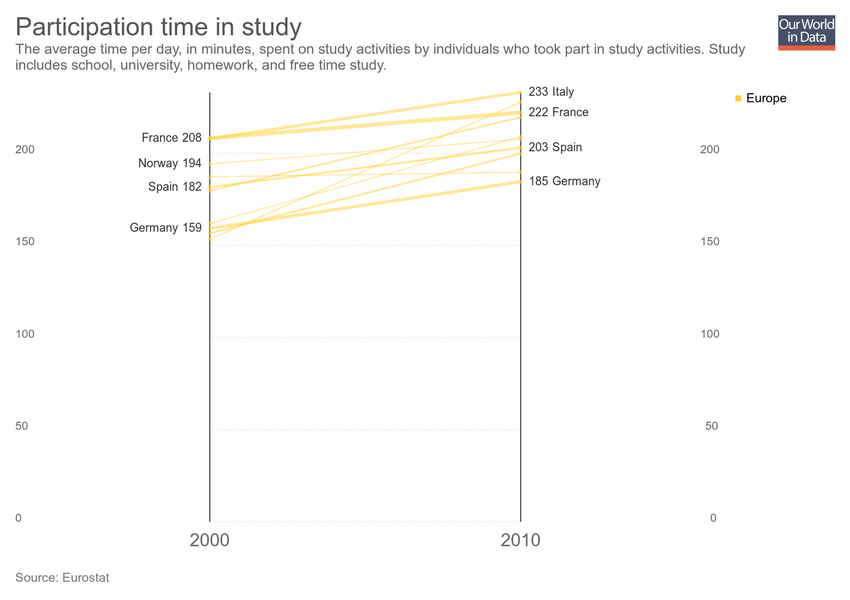
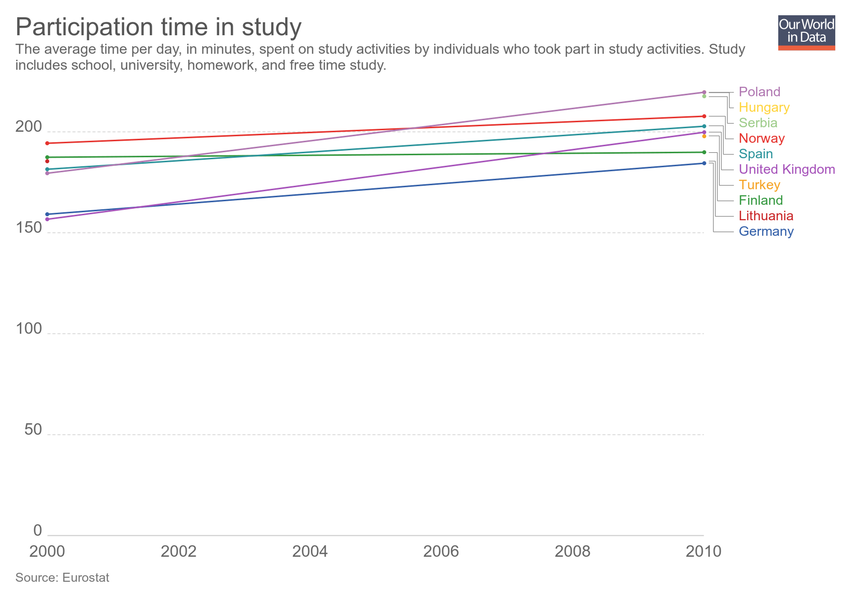
Updating chart participation-time-in-study

diff --git a/grapher/hiv-expenditure.html b/grapher/hiv-expenditure.html
@@ -1,4 +1,4 @@
-<!doctype html><html><head><meta name="viewport" content="width=device-width, initial-scale=1" /><title>HIV expenditure on prevention and treatment - Our World in Data</title><meta name="description" content="Total expenditure on HIV/AIDS prevention and treatment, measured in US$." /><link rel="canonical" href="https://ourworldindata.org/grapher/hiv-expenditure" /><meta property="fb:app_id" content="1149943818390250" /><meta property="og:url" content="https://ourworldindata.org/grapher/hiv-expenditure" /><meta property="og:title" content="HIV expenditure on prevention and treatment" /><meta property="og:description" content="Total expenditure on HIV/AIDS prevention and treatment, measured in US$." /><meta property="og:image" content="https://ourworldindata.org/grapher/exports/hiv-expenditure.png?v=1" /><meta property="og:image:width" content="850" /><meta property="og:image:height" content="600" /><meta property="og:site_name" content="Our World in Data" /><meta name="twitter:card" content="summary_large_image" /><meta name="twitter:site" content="@OurWorldInData" /><meta name="twitter:creator" content="@OurWorldInData" /><meta name="twitter:title" content="HIV expenditure on prevention and treatment" /><meta name="twitter:description" content="Total expenditure on HIV/AIDS prevention and treatment, measured in US$." /><meta name="twitter:image" content="https://ourworldindata.org/grapher/exports/hiv-expenditure.png?v=1" /><style>
+<!doctype html><html><head><meta name="viewport" content="width=device-width, initial-scale=1" /><title>HIV expenditure - Our World in Data</title><meta name="description" content="Country-reported HIV expenditure, measured in current US$ per year. The year of reported expenditure varies by country; this information can be found by hovering over a given country." /><link rel="canonical" href="https://ourworldindata.org/grapher/hiv-expenditure" /><meta property="fb:app_id" content="1149943818390250" /><meta property="og:url" content="https://ourworldindata.org/grapher/hiv-expenditure" /><meta property="og:title" content="HIV expenditure" /><meta property="og:description" content="Country-reported HIV expenditure, measured in current US$ per year. The year of reported expenditure varies by country; this information can be found by hovering over a given country." /><meta property="og:image" content="https://ourworldindata.org/grapher/exports/hiv-expenditure.png?v=1" /><meta property="og:image:width" content="850" /><meta property="og:image:height" content="600" /><meta property="og:site_name" content="Our World in Data" /><meta name="twitter:card" content="summary_large_image" /><meta name="twitter:site" content="@OurWorldInData" /><meta name="twitter:creator" content="@OurWorldInData" /><meta name="twitter:title" content="HIV expenditure" /><meta name="twitter:description" content="Country-reported HIV expenditure, measured in current US$ per year. The year of reported expenditure varies by country; this information can be found by hovering over a given country." /><meta name="twitter:image" content="https://ourworldindata.org/grapher/exports/hiv-expenditure.png?v=1" /><style>
         html, body {
             height: 100%;
             margin: 0;
@@ -20,19 +20,8 @@
         }
     </style><noscript><style>
                     figure { display: none !important; }
-                </style></noscript><link rel="stylesheet" href="https://ourworldindata.org/grapher/assets/commons.bundle.b9f051796dbbbb7e5139.css" /><link rel="preload" href="/grapher/data/variables/96328.json?v=1" as="fetch" crossorigin /></head><body class="singleChart"><figure data-grapher-src="/grapher/hiv-expenditure"></figure><noscript id="fallback"><img src="/grapher/exports/hiv-expenditure.svg" /><p>Interactive visualization requires JavaScript</p></noscript><script src="https://cdn.polyfill.io/v2/polyfill.min.js?features=es6,fetch"></script><script src="https://ourworldindata.org/grapher/assets/commons.bundle.b9f051796dbbbb7e5139.js"></script><script src="https://ourworldindata.org/grapher/assets/charts.bundle.b9f051796dbbbb7e5139.js"></script><script>
-        var jsonConfig = {"map":{"projection":"World","targetYear":2015,"variableId":96328,"timeTolerance":3,"baseColorScheme":"YlGnBu","isManualBuckets":true,"colorSchemeLabels":[],"colorSchemeValues":[50000000,100000000,150000000,200000000,250000000,300000000,350000000,400000000],"defaultProjection":"World","colorSchemeMinValue":0,"customNumericColors":[null,null],"customCategoryColors":{},"customCategoryLabels":{},"customHiddenCategories":{}},"tab":"map","slug":"hiv-expenditure","type":"LineChart","title":"HIV expenditure on prevention and treatment","xAxis":{"scaleType":"linear"},"yAxis":{"min":0,"scaleType":"linear"},"version":1,"subtitle":"Total expenditure on HIV/AIDS prevention and treatment, measured in US$.","hasMapTab":true,"stackMode":"absolute","dimensions":[{"display":{"shortUnit":"$"},"property":"y","variableId":96328}],"hasChartTab":true,"isPublished":true,"selectedData":[{"index":0,"entityId":123},{"index":0,"entityId":237},{"index":0,"entityId":95}],"addCountryMode":"add-country","id":2488};
-        var figure = document.getElementsByTagName("figure")[0];
-        try {
-            window.App = {};
-            window.Global = { rootUrl: 'https://ourworldindata.org/grapher' };
-            ChartView.bootstrap({ jsonConfig: jsonConfig, containerNode: figure })
-        } catch (err) {
-            figure.innerHTML = "<img src=\"/grapher/exports/hiv-expenditure.svg\"/><p>Unable to load interactive visualization</p>";
-            figure.setAttribute("id", "fallback");
-            throw err;
-        }
-    </script></body></html>d":219},{"index":0,"entityId":23},{"index":0,"entityId":25},{"index":0,"entityId":26},{"index":0,"entityId":28},{"index":0,"entityId":29},{"index":0,"entityId":30},{"index":0,"entityId":4},{"index":0,"entityId":31},{"index":0,"entityId":32},{"index":0,"entityId":34},{"index":0,"entityId":35},{"index":0,"entityId":36},{"index":0,"entityId":37},{"index":0,"entityId":39},{"index":0,"entityId":40},{"index":0,"entityId":41},{"index":0,"entityId":18581},{"index":0,"entityId":42},{"index":0,"entityId":43},{"index":0,"entityId":174},{"index":0,"entityId":173},{"index":0,"entityId":172},{"index":0,"entityId":171},{"index":0,"entityId":170},{"index":0,"entityId":169},{"index":0,"entityId":168},{"index":0,"entityId":166},{"index":0,"entityId":143}],"addCountryMode":"add-country","hideTitleAnnotation":true,"id":2293};
+                </style></noscript><link rel="stylesheet" href="https://ourworldindata.org/grapher/assets/commons.bundle.b9f051796dbbbb7e5139.css" /><link rel="preload" href="/grapher/data/variables/85855.json?v=1" as="fetch" crossorigin /></head><body class="singleChart"><figure data-grapher-src="/grapher/hiv-expenditure"></figure><noscript id="fallback"><img src="/grapher/exports/hiv-expenditure.svg" /><p>Interactive visualization requires JavaScript</p></noscript><script src="https://cdn.polyfill.io/v2/polyfill.min.js?features=es6,fetch"></script><script src="https://ourworldindata.org/grapher/assets/commons.bundle.b9f051796dbbbb7e5139.js"></script><script src="https://ourworldindata.org/grapher/assets/charts.bundle.b9f051796dbbbb7e5139.js"></script><script>
+        var jsonConfig = {"map":{"projection":"World","targetYear":2016,"variableId":85855,"equalSizeBins":true,"timeTolerance":5,"baseColorScheme":"Purples","isManualBuckets":true,"colorSchemeLabels":[],"colorSchemeValues":[50000000,100000000,200000000,300000000,400000000,500000000,750000000,1000000000],"defaultProjection":"World","colorSchemeMinValue":0,"customNumericColors":[null,null],"customCategoryColors":{},"customCategoryLabels":{},"customHiddenCategories":{}},"tab":"map","slug":"hiv-expenditure","type":"LineChart","title":"HIV expenditure","xAxis":{"scaleType":"linear"},"yAxis":{"min":0,"scaleType":"linear"},"version":1,"subtitle":"Country-reported HIV expenditure, measured in current US$ per year. The year of reported expenditure varies by country; this information can be found by hovering over a given country.","hasMapTab":true,"stackMode":"absolute","dimensions":[{"display":{},"property":"y","variableId":85855}],"isAutoSlug":true,"sourceDesc":"UNAIDS","hasChartTab":false,"isPublished":true,"selectedData":[{"index":0,"entityId":84},{"index":0,"entityId":233},{"index":0,"entityId":229},{"index":0,"entityId":15},{"index":0,"entityId":16},{"index":0,"entityId":17},{"index":0,"entityId":19},{"index":0,"entityId":20},{"index":0,"entityId":21},{"index":0,"entityId":22},{"index":0,"entityId":219},{"index":0,"entityId":23},{"index":0,"entityId":25},{"index":0,"entityId":26},{"index":0,"entityId":28},{"index":0,"entityId":29},{"index":0,"entityId":30},{"index":0,"entityId":4},{"index":0,"entityId":31},{"index":0,"entityId":32},{"index":0,"entityId":34},{"index":0,"entityId":35},{"index":0,"entityId":36},{"index":0,"entityId":37},{"index":0,"entityId":39},{"index":0,"entityId":40},{"index":0,"entityId":41},{"index":0,"entityId":18581},{"index":0,"entityId":42},{"index":0,"entityId":43},{"index":0,"entityId":174},{"index":0,"entityId":173},{"index":0,"entityId":172},{"index":0,"entityId":171},{"index":0,"entityId":170},{"index":0,"entityId":169},{"index":0,"entityId":168},{"index":0,"entityId":166},{"index":0,"entityId":143}],"addCountryMode":"add-country","hideTitleAnnotation":true,"id":2293};
         var figure = document.getElementsByTagName("figure")[0];
         try {
             window.App = {};

diff --git a/grapher/participation-time-in-study.html b/grapher/participation-time-in-study.html
@@ -1,4 +1,4 @@
-<!doctype html><html><head><meta name="viewport" content="width=device-width, initial-scale=1" /><title>Participation time in study - Our World in Data</title><meta name="description" content="The average time per day, in minutes, spent on study activities by individuals who took part in study activities. Study includes school, university, homework, and free time study. " /><link rel="canonical" href="https://ourworldindata.org/grapher/participation-time-in-study" /><meta property="fb:app_id" content="1149943818390250" /><meta property="og:url" content="https://ourworldindata.org/grapher/participation-time-in-study" /><meta property="og:title" content="Participation time in study" /><meta property="og:description" content="The average time per day, in minutes, spent on study activities by individuals who took part in study activities. Study includes school, university, homework, and free time study. " /><meta property="og:image" content="https://ourworldindata.org/grapher/exports/participation-time-in-study.png?v=6" /><meta property="og:image:width" content="850" /><meta property="og:image:height" content="600" /><meta property="og:site_name" content="Our World in Data" /><meta name="twitter:card" content="summary_large_image" /><meta name="twitter:site" content="@OurWorldInData" /><meta name="twitter:creator" content="@OurWorldInData" /><meta name="twitter:title" content="Participation time in study" /><meta name="twitter:description" content="The average time per day, in minutes, spent on study activities by individuals who took part in study activities. Study includes school, university, homework, and free time study. " /><meta name="twitter:image" content="https://ourworldindata.org/grapher/exports/participation-time-in-study.png?v=6" /><style>
+<!doctype html><html><head><meta name="viewport" content="width=device-width, initial-scale=1" /><title>Participation time in study - Our World in Data</title><meta name="description" content="The average time per day, in minutes, spent on study activities by individuals who took part in study activities. Study includes school, university, homework, and free time study. " /><link rel="canonical" href="https://ourworldindata.org/grapher/participation-time-in-study" /><meta property="fb:app_id" content="1149943818390250" /><meta property="og:url" content="https://ourworldindata.org/grapher/participation-time-in-study" /><meta property="og:title" content="Participation time in study" /><meta property="og:description" content="The average time per day, in minutes, spent on study activities by individuals who took part in study activities. Study includes school, university, homework, and free time study. " /><meta property="og:image" content="https://ourworldindata.org/grapher/exports/participation-time-in-study.png?v=7" /><meta property="og:image:width" content="850" /><meta property="og:image:height" content="600" /><meta property="og:site_name" content="Our World in Data" /><meta name="twitter:card" content="summary_large_image" /><meta name="twitter:site" content="@OurWorldInData" /><meta name="twitter:creator" content="@OurWorldInData" /><meta name="twitter:title" content="Participation time in study" /><meta name="twitter:description" content="The average time per day, in minutes, spent on study activities by individuals who took part in study activities. Study includes school, university, homework, and free time study. " /><meta name="twitter:image" content="https://ourworldindata.org/grapher/exports/participation-time-in-study.png?v=7" /><style>
         html, body {
             height: 100%;
             margin: 0;
@@ -20,8 +20,8 @@
         }
     </style><noscript><style>
                     figure { display: none !important; }
-                </style></noscript><link rel="stylesheet" href="https://ourworldindata.org/grapher/assets/commons.bundle.b9f051796dbbbb7e5139.css" /><link rel="preload" href="/grapher/data/variables/97632+123+72.json?v=6" as="fetch" crossorigin /></head><body class="singleChart"><figure data-grapher-src="/grapher/participation-time-in-study"></figure><noscript id="fallback"><img src="/grapher/exports/participation-time-in-study.svg" /><p>Interactive visualization requires JavaScript</p></noscript><script src="https://cdn.polyfill.io/v2/polyfill.min.js?features=es6,fetch"></script><script src="https://ourworldindata.org/grapher/assets/commons.bundle.b9f051796dbbbb7e5139.js"></script><script src="https://ourworldindata.org/grapher/assets/charts.bundle.b9f051796dbbbb7e5139.js"></script><script>
-        var jsonConfig = {"id":2834,"map":{"projection":"World","colorSchemeLabels":[],"colorSchemeValues":[],"customNumericColors":[],"customCategoryColors":{},"customCategoryLabels":{},"customHiddenCategories":{}},"tab":"chart","slug":"participation-time-in-study","type":"SlopeChart","title":"Participation time in study","xAxis":{"scaleType":"linear"},"yAxis":{"min":0,"scaleType":"linear"},"version":6,"subtitle":"The average time per day, in minutes, spent on study activities by individuals who took part in study activities. Study includes school, university, homework, and free time study. ","hasMapTab":false,"stackMode":"absolute","dimensions":[{"display":{"numDecimalPlaces":0},"property":"y","variableId":97632},{"display":{},"property":"color","variableId":123},{"display":{},"property":"size","variableId":72}],"hasChartTab":true,"isPublished":true,"selectedData":[],"addCountryMode":"add-country"};
+                </style></noscript><link rel="stylesheet" href="https://ourworldindata.org/grapher/assets/commons.bundle.b9f051796dbbbb7e5139.css" /><link rel="preload" href="/grapher/data/variables/97632.json?v=7" as="fetch" crossorigin /></head><body class="singleChart"><figure data-grapher-src="/grapher/participation-time-in-study"></figure><noscript id="fallback"><img src="/grapher/exports/participation-time-in-study.svg" /><p>Interactive visualization requires JavaScript</p></noscript><script src="https://cdn.polyfill.io/v2/polyfill.min.js?features=es6,fetch"></script><script src="https://ourworldindata.org/grapher/assets/commons.bundle.b9f051796dbbbb7e5139.js"></script><script src="https://ourworldindata.org/grapher/assets/charts.bundle.b9f051796dbbbb7e5139.js"></script><script>
+        var jsonConfig = {"id":2834,"map":{"projection":"World","colorSchemeLabels":[],"colorSchemeValues":[],"customNumericColors":[],"customCategoryColors":{},"customCategoryLabels":{},"customHiddenCategories":{}},"tab":"chart","slug":"participation-time-in-study","type":"LineChart","title":"Participation time in study","xAxis":{"scaleType":"linear"},"yAxis":{"min":0,"scaleType":"linear"},"version":7,"subtitle":"The average time per day, in minutes, spent on study activities by individuals who took part in study activities. Study includes school, university, homework, and free time study. ","hasMapTab":false,"stackMode":"absolute","dimensions":[{"display":{"numDecimalPlaces":0},"property":"y","variableId":97632}],"hasChartTab":true,"isPublished":true,"selectedData":[{"index":0,"entityId":138},{"index":0,"entityId":6},{"index":0,"entityId":155},{"index":0,"entityId":70},{"index":0,"entityId":88},{"index":0,"entityId":9},{"index":0,"entityId":1},{"index":0,"entityId":102},{"index":0,"entityId":11},{"index":0,"entityId":119}],"addCountryMode":"add-country"};
         var figure = document.getElementsByTagName("figure")[0];
         try {
             window.App = {};
